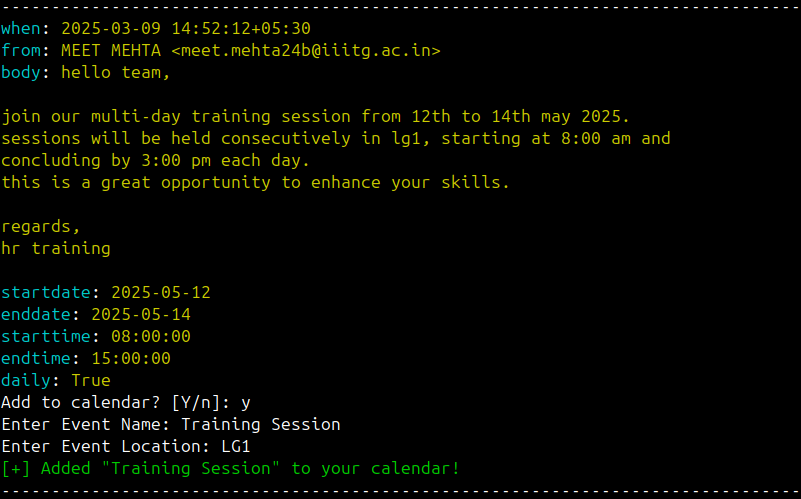
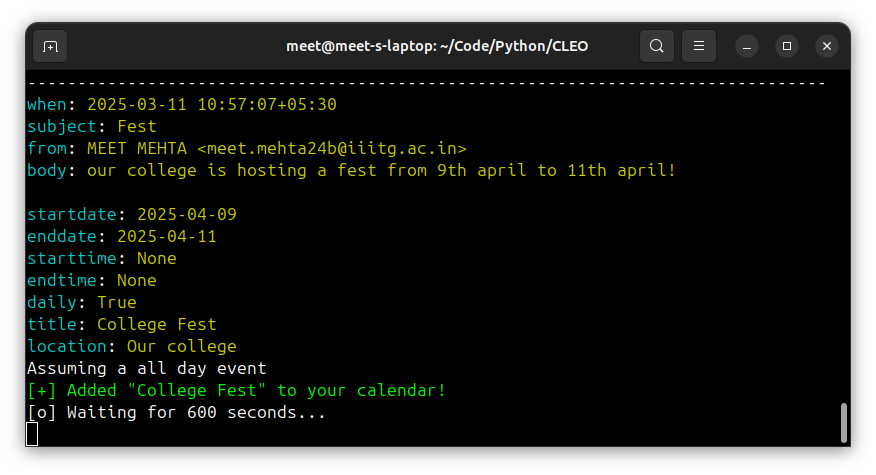
Final Commit

diff --git a/main.py b/main.py
@@ -1,5 +1,6 @@
 import os.path
 import base64
+from time import sleep
 from bs4 import BeautifulSoup
 import dateparser
 from google.auth.transport.requests import Request
@@ -26,7 +27,7 @@ print('''
 ''')
 
 SCOPES = [
-    "https://www.googleapis.com/auth/gmail.readonly",
+    "https://www.googleapis.com/auth/gmail.modify",
     "https://www.googleapis.com/auth/calendar"
 ]
 
@@ -46,7 +47,6 @@ def authenticate():
         
         else:
 
-            # TODO: Think of a way to eliminate credentials.json
             flow = InstalledAppFlow.from_client_secrets_file(
                 "credentials.json", SCOPES
             )
@@ -61,8 +61,7 @@ def authenticate():
 def dtparse(str: str, context_time = None):
 
     settings = {
-        'DATE_ORDER': 'DMY',
-        'PREFER_DATES_FROM': 'future'
+        'DATE_ORDER': 'DMY'
     }
 
     if context_time:
@@ -101,9 +100,11 @@ def getMail(creds, maxResults):
 
     try:
         service = build("gmail", "v1", credentials=creds)
-
-        # TODO: Decide how many emails to fetch or what conditions they must satisfy
-        results = service.users().messages().list(userId = "me", labelIds = ['INBOX'], maxResults = maxResults).execute()
+        try:
+            results = service.users().messages().list(userId = "me", labelIds = ['INBOX'], maxResults = maxResults, q='is:unread newer_than:2d').execute()
+        except Exception as e:
+            print(f"[!] Error occurred while fetching mail: {e}")
+            return []
 
         messages = results.get('messages', [])
 
@@ -138,7 +139,14 @@ def getMail(creds, maxResults):
                 mail['body'] = body
 
                 mails.append(mail)
-
+                '''
+                # Mark email as read by removing the UNREAD label
+                service.users().messages().modify(
+                    userId="me",
+                    id=message['id'],
+                    body={'removeLabelIds': ['UNREAD']}
+                ).execute()
+                '''
 
         return mails   
 
@@ -279,7 +287,6 @@ def parseExplicitDate(text: str, context_time):
     for result in results:
         # remove any whitespace and surrounding characters
         result = result.strip()
-
         result = datetime.date(dtparse(result, context_time))
         if result:
             parsed_results.append(result)
@@ -515,7 +522,7 @@ def extractDateTime(mails):
             datetime_info['endtime'] = times[-1] if len(times) > 1 else None
 
         fixDateTime(datetime_info, context_time)
-        
+
         for key, value in datetime_info.items():
             mail[key] = value
 
@@ -544,13 +551,13 @@ def generateTitleLocation(mail):
         api_key = api_key
     )
 
-    model = "gemini-2.0-flash"
+    model = "gemini-2.0-flash-lite"
     contents = [
         types.Content(
             role="user",
             parts=[
                 types.Part.from_text(text=f"""Extract event details from the following text. Your task is to:
-                                                Generate the event title.
+                                                Generate the event title (Be as specific as possible).
                                                 Determine the event location.
 
                                                 Respond with only one line in the following format:
@@ -624,20 +631,19 @@ def insertEvent(service, event, conflict_resolution = 'ask_user', tz = datetime.
         print(colored("[!] Conflicting events found:", 'light_red'))
 
         for conflict in conflicts:
-
+            
             summary = conflict.get('summary', 'No Title')
             start = conflict['start']
             end = conflict['end']
 
             print(f"- {summary}: starts at {start} and ends at {end}")
 
-        while conflict_resolution == 'ask_user':
-            conflict_resolution = input("1: Keep old\n2: Keep new\n3: Keep both\nOption: ").strip()
+        while True:
 
             if conflict_resolution == "1":
                 print(colored("[=] Keeping old events. New event will not be added.", 'light_green'))
                 return None
-                        
+            
             elif conflict_resolution == "2":
                 # Delete conflicting events.
                 for conflict in conflicts:
@@ -645,20 +651,30 @@ def insertEvent(service, event, conflict_resolution = 'ask_user', tz = datetime.
                     service.events().delete(calendarId='primary', eventId=event_id).execute()
                         
                 print(colored("[-] Old conflicting events deleted. Proceeding to add new event.", 'light_green'))
-
+                break
+            
             elif conflict_resolution == "3":
                 print(colored("[+] Adding new event alongside existing conflicting events.", 'light_green'))
-
+                break
+            
             else:
-                print(f"[!] Invalid conflict resolution option: {conflict_resolution}.")
-                conflict_resolution = 'ask_user'    
+                conflict_resolution = input("1: Keep old\n2: Keep new\n3: Keep both\nOption: ").strip()
     
     if event['start'].get('dateTime'):
-        event['start']['dateTime'] = event['start']['dateTime'].isoformat()
-        event['end']['dateTime'] = event['end']['dateTime'].isoformat()
+        try:
+            event['start']['dateTime'] = event['start']['dateTime'].isoformat()
+            event['end']['dateTime'] = event['end']['dateTime'].isoformat()
+        except:
+            event['start']['dateTime'] = event['start']['dateTime']
+            event['end']['dateTime'] = event['end']['dateTime']
     else:
-        event['start']['date'] = event['start']['date'].isoformat()
-        event['end']['date'] = event['end']['date'].isoformat()
+        try:
+            event['start']['date'] = event['start']['date'].isoformat()
+            event['end']['date'] = event['end']['date'].isoformat()
+        except:
+            # SOMETIMES THESE DECIDE TO IDENTIFY AS A STRING... I DO NOT KNOW WHY!!!!!!!!!!!!
+            event['start']['date'] = event['start']['date']
+            event['start']['date'] = event['start']['date']
 
     event = service.events().insert(calendarId='primary', body=event).execute()
 
@@ -673,6 +689,9 @@ def createEvent(mail, date = None, local_zone = 'Asia/Kolkata'):
     }
 
     if date is not None:
+        event['start'] = {}
+        event['end'] = {}
+
         if mail['starttime'] is None:
             event['start']['date'] = date
             event['start']['timeZone'] = local_zone
@@ -680,8 +699,8 @@ def createEvent(mail, date = None, local_zone = 'Asia/Kolkata'):
             event['end']['timeZone'] = local_zone
 
         else:
-            event['start']['date'] = date
-            event['end']['date'] = date
+            event['start']['dateTime'] = datetime.combine(date, event['starttime'])
+            event['end']['date']       = datetime.combine(date, event['endtime'])
             event['start']['timeZone'] = local_zone
             event['end']['timeZone'] = local_zone
 
@@ -741,17 +760,25 @@ def addEvent(creds, mail, conflict_resolution = 'ask_user'):
             for date in mail['all_dates']:
 
                 event = createEvent(mail, date)
-                insertEvent(service, event, conflict_resolution)
+                event_links.append(insertEvent(service, event, conflict_resolution))
         else:
             event = createEvent(mail)
-            insertEvent(service, event)
+            event_links.append(insertEvent(service, event, conflict_resolution))
+        
+        return event_links
             
     except HttpError as error:
         print(f"An error occurred: {error}")
 
+def wait(seconds):
+    print(f'[o] Waiting for {seconds} seconds...')
+    sleep(seconds)
+
 def main():
     
     maxResults = sys.argv[1] if len(sys.argv) > 1 else 5
+    auto = (sys.argv[2] == '--auto' or sys.argv[2] == '-a') if len(sys.argv) > 2 else False
+    sec = sys.argv[3] if len(sys.argv) > 3 else 600 # every 10 minutes
 
     creds = authenticate()
 
@@ -762,9 +789,11 @@ def main():
 
         mails = getMail(creds, maxResults)
 
-        if len(mails) == 0:
+        if not mails or len(mails) == 0:
             print("[!] No mails fit current criteria")
-            return
+            if auto:
+                wait(sec)
+                main()
         
         print("[~] Pulled mail from Gmail API!")
 
@@ -777,38 +806,56 @@ def main():
         addedEvents = []
         for mail in mails:
 
-            if mail['starttime'] or mail['starttime']:
+            if mail['startdate'] or mail['starttime']:
 
                 print("-"*80)
 
                 for key, value in mail.items():
                     print("{}: {}".format(colored(key, 'cyan'), colored(value, 'yellow')))
 
-                if input("Add to calendar? [Y/n]: ") == 'n':
-                    continue
-
-                # Check and ask for startdate if None
+                if not auto:
+                    if input("Add to calendar? [Y/n]: ") == 'n':
+                        continue
                 if mail["startdate"] is None:
-                    mail["startdate"] = datetime.date(dtparse(input("Enter start-date: "), mail['when']))
-                    mail['enddate']   = datetime.date(dtparse(input("Enter end-date: ")  , mail['when']))
+                    if not auto:
+                        mail["startdate"] = datetime.date(dtparse(input("Enter start-date: "), mail['when']))
+                        mail['enddate']   = datetime.date(dtparse(input("Enter end-date: ")  , mail['when']))
+                    else:
+                        continue
 
-                # Check and ask for starttime if None
+                    # Check and ask for starttime if None
                 if mail["starttime"] is None:
-                    print("-1 for a all day event")
-                    starttime = input("Enter start-time: ").strip()
+                    if auto:
+                        print("Assuming a all day event")
+                        starttime = '-1'
+                    else:
+                        print("Enter -1 for a all day event")
+                        starttime = input("Enter starttime: ")
+
                     if starttime == '-1':
                         pass
                     else:
                         mail["starttime"] = datetime.time(dtparse(starttime                , mail['when']))
                         mail['endtime']   = datetime.time(dtparse(input("Enter end-time: "), mail['when']))
 
-                addedEvent = addEvent(creds, mail)
+                if auto:
+                    # Keep both events
+                    conflict_resolution = '3'
+                else:
+                    conflict_resolution = 'ask_user'
 
-                addedEvents.append(addedEvent)
+                addedEvent = addEvent(creds, mail, conflict_resolution = conflict_resolution)
 
-                print(colored(f"[+] Added \"{mail['title']}\" to your calendar!", 'light_green'))
+                addedEvents.extend(addedEvent)
+                
+                if addedEvent:
+                    print(colored(f"[+] Added \"{mail['title']}\" to your calendar!", 'light_green'))
             else:
                 print(colored(f"[=] Skipped \"{mail['subject']}\"", 'light_green'))
+    
+        if auto:
+            wait(sec)
+            main()
 
 if __name__ == '__main__':
     main()

diff --git a/README.md b/README.md
@@ -12,32 +12,22 @@ CLEO is a command-line tool designed to streamline your inbox by reading your em
   - Fetching emails from Gmail using the Google API.
 
 - [x] **Date Extraction:**  
-  - handling various date formats (e.g., "Friday 7th", "20 May 2024", "7/3/2024", "02/05/2025").
+  - Handling various date formats (e.g., "Friday 7th", "20 May 2024", "7/3/2024", "02/05/2025").
 
 - [x] **Multi-Date Events**
-  - handling events that span multiple days
+  - Handling events that span multiple days.
 
 - [x] **Calendar Syncing:**  
   - Automatically create and update Google Calendar events based on extracted email data.
 
 - [x] **Location Extraction:**
-  - Detect venues (street addresses), internal room codes (e.g., "C7", "LG1") using custom regex (works terribly).
+  - Detect venues (street addresses), internal room codes (e.g., "C7", "LG1") using custom regex.
 
 - [x] **Additional NLP Integration:**
   - CLEO's date and time extraction outperforms existing NLP solutions.
 
 - [x] **Event Title Extraction:**
-  - Capture event titles from email subjects and contextual clues in the body using Gemini API
-
-- [ ] **User Interface Enhancements:**  
-  - Expand CLI commands for summarizing emails, listing upcoming events, and manual syncing.
-
-- [ ] **Web Application/Website:**
-
-  - Develop a web-based interface for CLEO to allow users to access its features through a browser.
-  - Create a user-friendly dashboard to view emails, event details, and calendar sync status.
-  - Integrate authentication, email fetching, and event creation in a responsive design.
-  - Include map integration for visualizing event locations.
+  - Capture event titles from email subjects and contextual clues in the body using Gemini API.
 
 ### Stay Organized, Effortlessly with CLEO! 
 
@@ -55,3 +45,5 @@ Here’s a quick look at CLEO parsing multi-day events and adding them to the ca
 And here’s an example of how CLEO handles conflicting events:
 
 ![CLEO detecting conflicting events](./images/ss3.png)
+
+It automatically handles conflicts while in auto mode!
